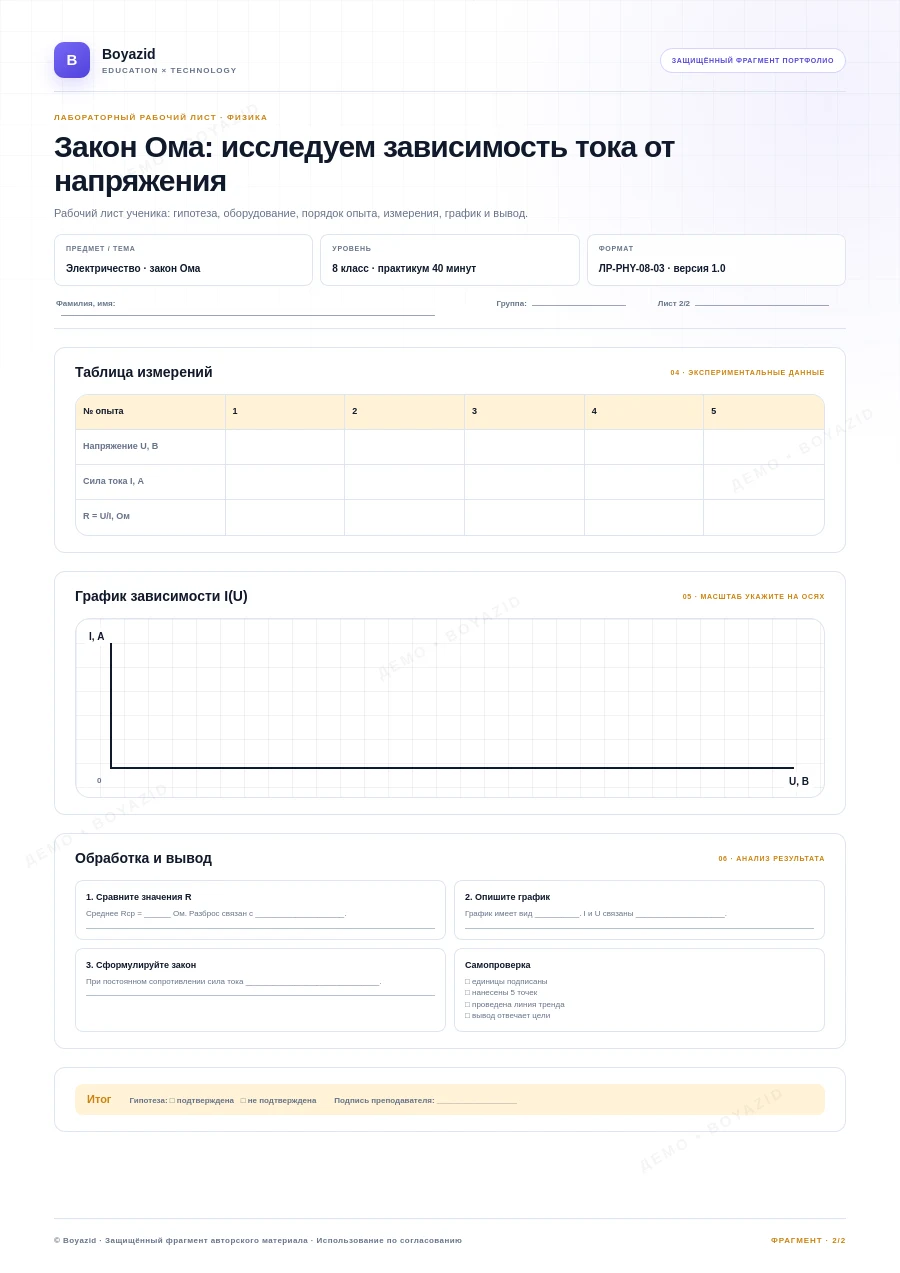
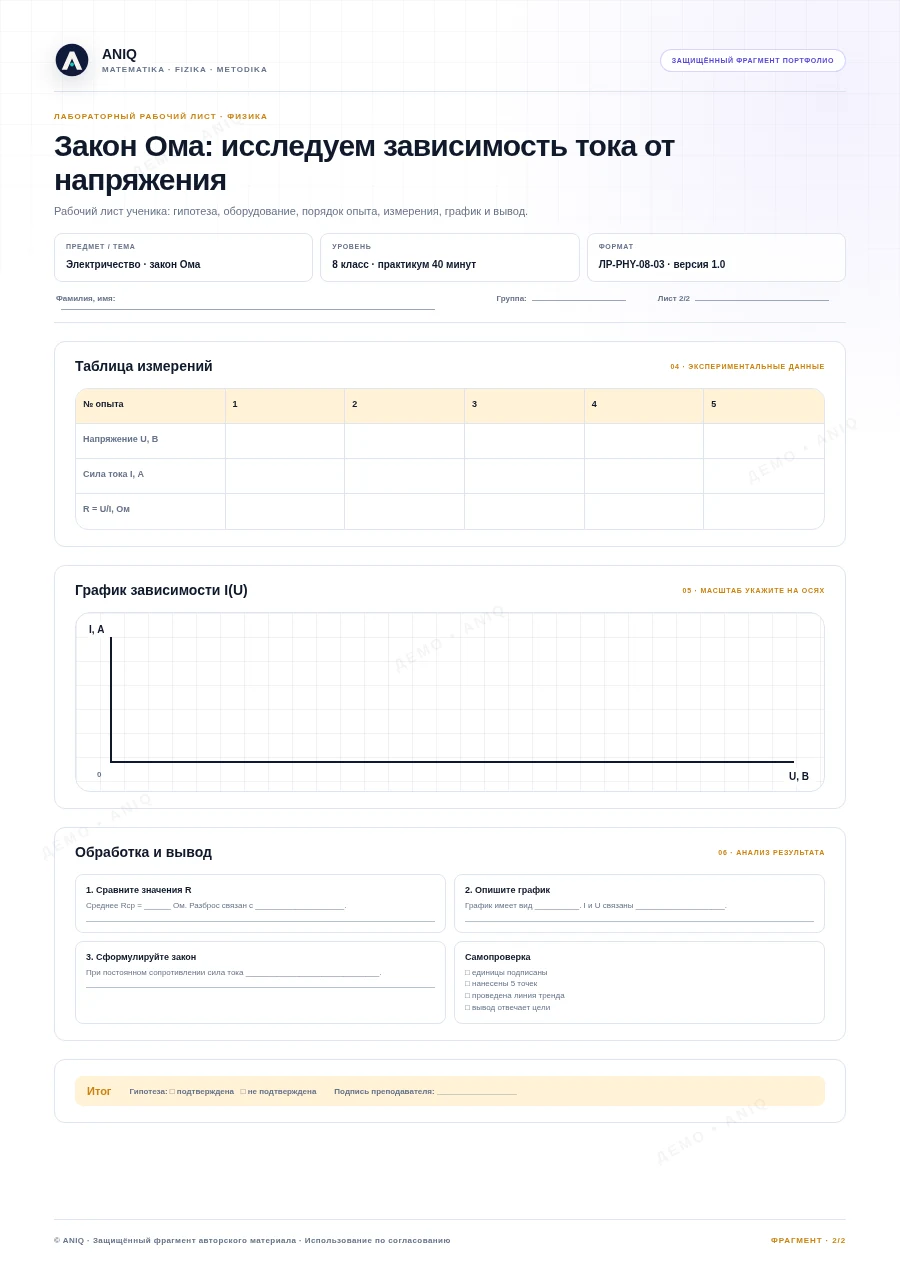
feat: apply ANIQ brand identity

diff --git a/app/page.jsx b/app/page.jsx
@@ -2,6 +2,24 @@
 
 import { useEffect, useRef, useState } from 'react'
 
+function AniqBrandMark({ className = '' }) {
+  return (
+    <svg
+      className={`brand-mark ${className}`.trim()}
+      viewBox="0 0 64 64"
+      aria-hidden="true"
+      focusable="false"
+    >
+      <circle className="brand-mark-disc" cx="32" cy="32" r="29" />
+      <path
+        className="brand-mark-letter"
+        d="M13.8 49.5 28.1 17h7.8l14.3 32.5h-9.4L32 29.5l-8.8 20h-9.4Z"
+      />
+      <circle className="brand-mark-point" cx="32" cy="40" r="3.35" />
+    </svg>
+  )
+}
+
 const CONTENT = {
   uz: {
     languageName: "O'zbekcha",
@@ -298,7 +316,7 @@ const CONTENT = {
       loading: 'Namoyish sahifasi yuklanmoqda',
       loadError: 'Sahifani yuklab bo‘lmadi',
       retry: 'Qayta urinish',
-      printMessage: 'DEMO · BOYAZID — namoyish fragmenti. Asl fayl saytga joylanmagan.',
+      printMessage: 'DEMO · ANIQ — namoyish fragmenti. Asl fayl saytga joylanmagan.',
     },
     mobileMenu: 'Menyuni ochish',
     closeMenu: 'Menyuni yopish',
@@ -608,7 +626,7 @@ const CONTENT = {
       loading: 'Загрузка демонстрационной страницы',
       loadError: 'Не удалось загрузить страницу',
       retry: 'Повторить',
-      printMessage: 'DEMO · BOYAZID — демонстрационный фрагмент. Оригинал на сайте не размещён.',
+      printMessage: 'DEMO · ANIQ — демонстрационный фрагмент. Оригинал на сайте не размещён.',
     },
     mobileMenu: 'Открыть меню',
     closeMenu: 'Закрыть меню',
@@ -1943,13 +1961,11 @@ export default function Home() {
 
       <header className="site-header">
         <div className="container-wide header-inner">
-          <a href="#about" className="brand" onClick={closeMenu} aria-label="Boyazid">
-            <span className="brand-symbol" aria-hidden="true">
-              B
-            </span>
+          <a href="#about" className="brand" onClick={closeMenu} aria-label="ANIQ">
+            <AniqBrandMark />
             <span>
-              <span className="brand-name">Boyazid</span>
-              <span className="brand-role">education × technology</span>
+              <span className="brand-name">ANIQ</span>
+              <span className="brand-role">matematika · fizika · metodika</span>
             </span>
           </a>
 
@@ -2561,11 +2577,9 @@ export default function Home() {
           >
             <header className="demo-modal-header">
               <div className="demo-modal-brand">
-                <span className="brand-symbol" aria-hidden="true">
-                  B
-                </span>
+                <AniqBrandMark />
                 <span>
-                  <strong>Boyazid</strong>
+                  <strong>ANIQ</strong>
                   <small>{tr.demoViewer.badge}</small>
                 </span>
               </div>
@@ -2689,9 +2703,9 @@ export default function Home() {
                     onError={() => setDemoImageStatus('error')}
                   />
                   <div className="demo-screen-watermark" aria-hidden="true">
-                    <span>DEMO · BOYAZID</span>
-                    <span>DEMO · BOYAZID</span>
-                    <span>DEMO · BOYAZID</span>
+                    <span>DEMO · ANIQ</span>
+                    <span>DEMO · ANIQ</span>
+                    <span>DEMO · ANIQ</span>
                   </div>
                 </div>
 

diff --git a/tools/demo-previews/index.html b/tools/demo-previews/index.html
@@ -3,7 +3,7 @@
   <head>
     <meta charset="utf-8" />
     <meta name="viewport" content="width=device-width, initial-scale=1" />
-    <title>Boyazid — демонстрационные учебные макеты</title>
+    <title>ANIQ — демонстрационные учебные макеты</title>
     <style>
       :root {
         --ink: #10192b;
@@ -75,16 +75,10 @@
       }
       .brand { display: flex; align-items: center; gap: 12px; }
       .brand-mark {
-        display: grid;
+        display: block;
         width: 42px;
         height: 42px;
-        place-items: center;
-        border-radius: 13px;
-        background: linear-gradient(145deg, #7768f6, #5141db);
-        color: #fff;
-        font-size: 17px;
-        font-weight: 900;
-        box-shadow: 0 8px 18px rgba(101,85,238,.22);
+        filter: drop-shadow(0 7px 12px rgba(16,26,58,.18));
       }
       .brand strong { display: block; font-size: 14px; }
       .brand small {
@@ -986,7 +980,14 @@
         },
       }
 
-      const watermarks = Array.from({ length: 8 }, () => '<span>ДЕМО • BOYAZID</span>').join('')
+      const watermarks = Array.from({ length: 8 }, () => '<span>ДЕМО • ANIQ</span>').join('')
+
+      const aniqMark = `
+        <svg class="brand-mark" viewBox="0 0 64 64" aria-hidden="true">
+          <circle cx="32" cy="32" r="29" fill="#101A3A"/>
+          <path d="M13.8 49.5 28.1 17h7.8l14.3 32.5h-9.4L32 29.5l-8.8 20h-9.4Z" fill="#F6F4EE"/>
+          <circle cx="32" cy="40" r="3.35" fill="#19C7BC"/>
+        </svg>`
 
       const renderPage = (documentKey, documentPage) => {
         const current = data[documentKey] || data.guide
@@ -996,7 +997,7 @@
           <div class="grid"></div>
           <div class="watermarks">${watermarks}</div>
           <header>
-            <div class="brand"><span class="brand-mark">B</span><span><strong>Boyazid</strong><small>Education × Technology</small></span></div>
+            <div class="brand">${aniqMark}<span><strong>ANIQ</strong><small>Matematika · Fizika · Metodika</small></span></div>
             <span class="demo-badge">Защищённый фрагмент портфолио</span>
           </header>
           <main>
@@ -1010,7 +1011,7 @@
             </div>
             ${content}
           </main>
-          <footer><span>© Boyazid · Защищённый фрагмент авторского материала · Использование по согласованию</span><strong>Фрагмент · ${documentPage}/2</strong></footer>
+          <footer><span>© ANIQ · Защищённый фрагмент авторского материала · Использование по согласованию</span><strong>Фрагмент · ${documentPage}/2</strong></footer>
         </article>`
       }
 

diff --git a/app/globals.css b/app/globals.css
@@ -4671,6 +4671,75 @@ button:focus-visible {
   }
 }
 
+/* ANIQ brand identity */
+.brand-mark {
+  display: block;
+  width: 42px;
+  height: 42px;
+  flex: 0 0 auto;
+  overflow: visible;
+  filter: drop-shadow(0 0 15px rgba(67, 231, 208, 0.1));
+  transition: transform 220ms ease, filter 220ms ease;
+}
+
+.brand-mark-disc {
+  fill: #101a3a;
+  stroke: rgba(67, 231, 208, 0.42);
+  stroke-width: 1.15;
+}
+
+.brand-mark-letter {
+  fill: #f6f4ee;
+}
+
+.brand-mark-point {
+  fill: #19c7bc;
+  transition: filter 220ms ease;
+}
+
+.brand:hover .brand-mark {
+  transform: translateY(-1px) scale(1.025);
+  filter: drop-shadow(0 0 18px rgba(67, 231, 208, 0.2));
+}
+
+.brand:hover .brand-mark-point {
+  filter: drop-shadow(0 0 4px #43e7d0);
+}
+
+.brand-name {
+  font-size: 16px;
+  letter-spacing: 0.09em;
+}
+
+.brand-role {
+  font-size: 8px;
+  letter-spacing: 0.08em;
+}
+
+.demo-modal-brand .brand-mark {
+  width: 38px;
+  height: 38px;
+  filter: drop-shadow(0 5px 10px rgba(16, 26, 58, 0.16));
+}
+
+html[data-theme="light"] .brand-mark-disc {
+  stroke: rgba(25, 199, 188, 0.58);
+}
+
+@media (max-width: 639px) {
+  .brand-mark {
+    width: 36px;
+    height: 36px;
+  }
+}
+
+@media (prefers-reduced-motion: reduce) {
+  .brand-mark,
+  .brand-mark-point {
+    transition: none;
+  }
+}
+
 /* Theme controls and light scientific laboratory */
 .theme-switch {
   display: inline-flex;

diff --git a/app/layout.jsx b/app/layout.jsx
@@ -19,7 +19,7 @@ const themeScript = `
 `
 
 export const metadata = {
-  title: 'Boyazid — преподаватель, методист и разработчик',
+  title: 'ANIQ — математика, физика и методические материалы',
   description:
     'Преподавание математики и физики, разработка методических пособий, тестовых материалов и цифровых образовательных инструментов.',
   keywords: [
@@ -31,7 +31,7 @@ export const metadata = {
     'EdTech',
   ],
   openGraph: {
-    title: 'Boyazid — Education × Technology',
+    title: 'ANIQ — математика и физика понятно',
     description:
       'Математика, физика, методические материалы и цифровые инструменты для образования.',
     type: 'website',
